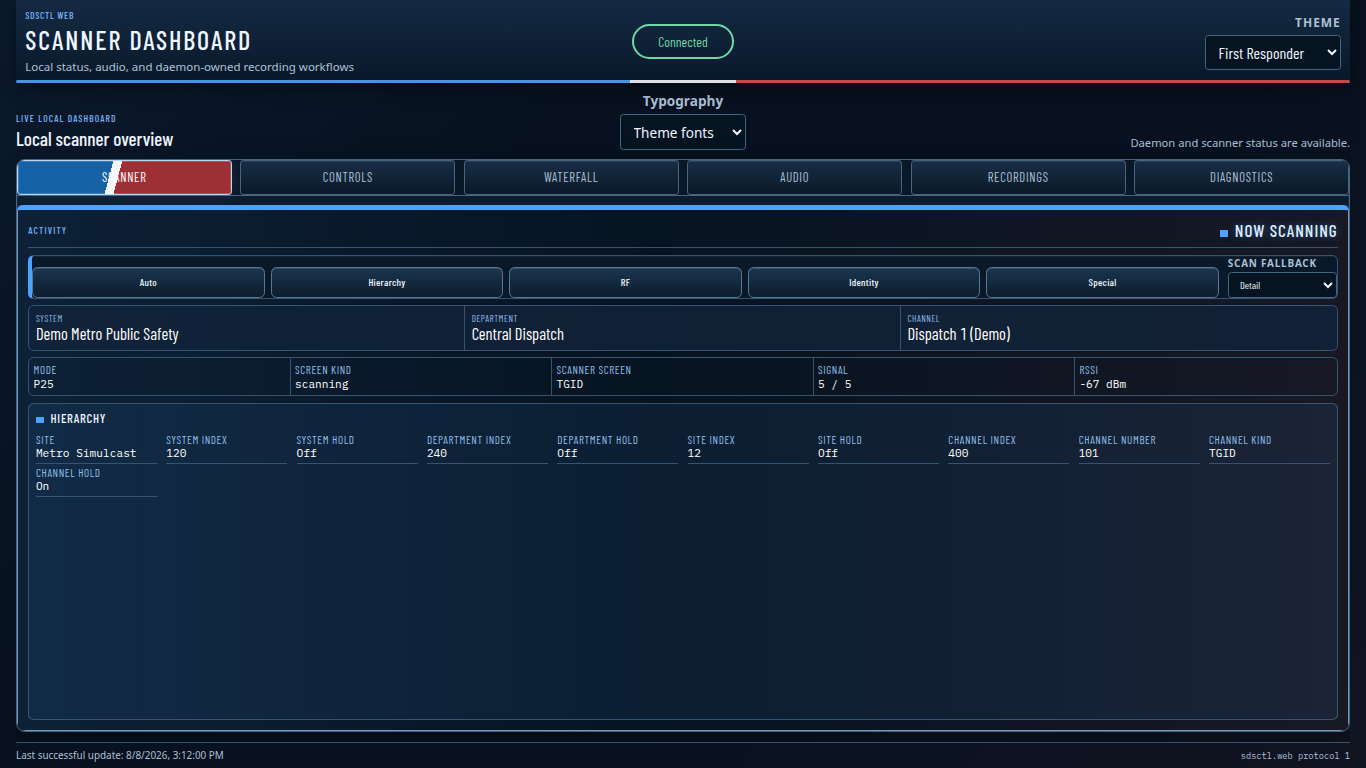
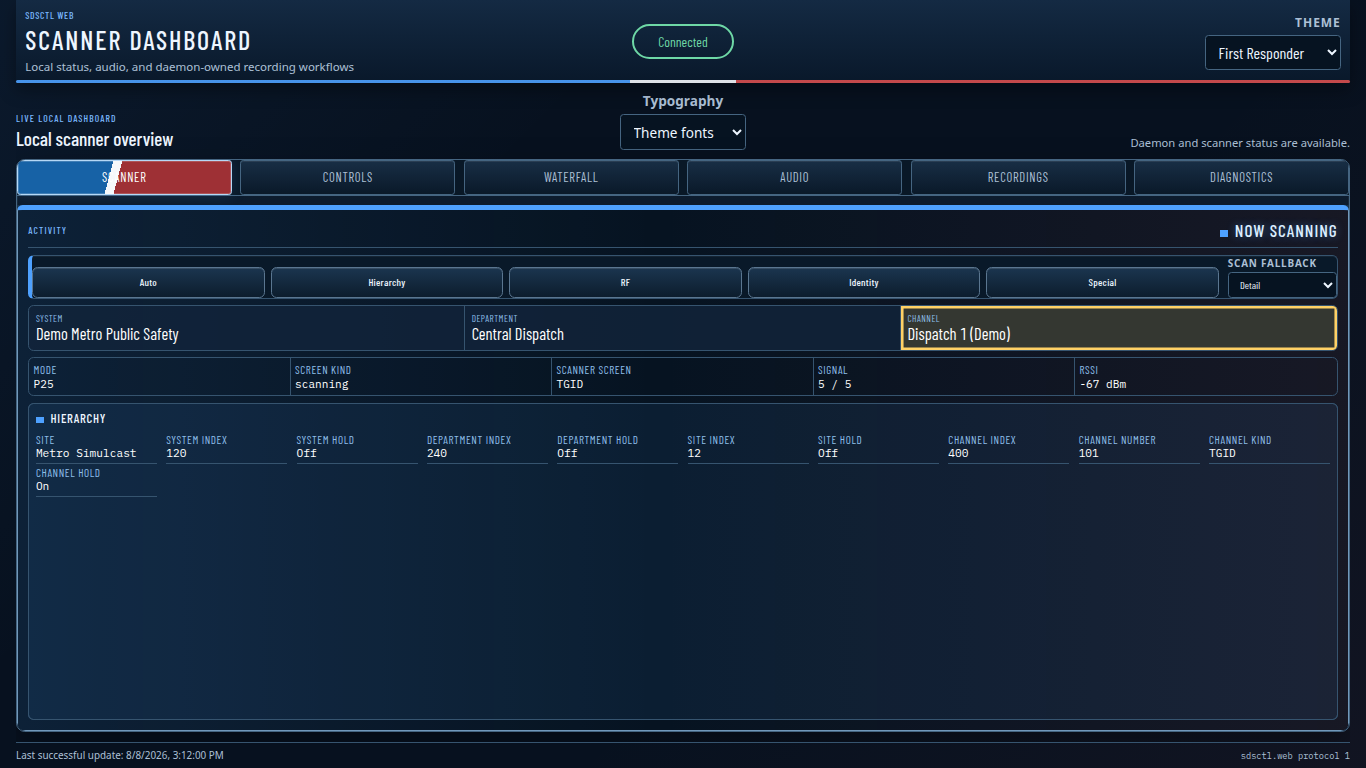
feat: highlight held scanner fields across themes

Changed region(s): [[0.6457, 0.375, 0.9839, 0.4688]]

diff --git a/src/sds200/web_assets/dashboard.html b/src/sds200/web_assets/dashboard.html
@@ -331,15 +331,15 @@
         </div>
 
         <dl class="scanner-display-hierarchy">
-          <div>
+          <div data-hold-scope="system" data-hold-state="unknown">
             <dt>System</dt>
             <dd id="radio-system" class="primary-value">No active system</dd>
           </div>
-          <div>
+          <div data-hold-scope="department" data-hold-state="unknown">
             <dt>Department</dt>
             <dd id="radio-department" class="secondary-value">Unavailable</dd>
           </div>
-          <div>
+          <div data-hold-scope="channel" data-hold-state="unknown">
             <dt>Channel</dt>
             <dd id="radio-channel" class="secondary-value">No active channel</dd>
           </div>
@@ -372,7 +372,7 @@
           <section id="radio-group-hierarchy" class="radio-field-group" aria-labelledby="radio-hierarchy-title" data-radio-group="hierarchy">
             <h3 id="radio-hierarchy-title">Hierarchy</h3>
             <dl class="radio-field-list">
-              <div><dt>Site</dt><dd id="radio-site">Unavailable</dd></div>
+              <div data-hold-scope="site" data-hold-state="unknown"><dt>Site</dt><dd id="radio-site">Unavailable</dd></div>
               <div><dt>System index</dt><dd id="radio-system-index">Unavailable</dd></div>
               <div><dt>System hold</dt><dd id="radio-system-hold">Unavailable</dd></div>
               <div><dt>Department index</dt><dd id="radio-department-index">Unavailable</dd></div>

diff --git a/src/sds200/web_assets/dashboard.js b/src/sds200/web_assets/dashboard.js
@@ -2336,6 +2336,14 @@ function setScannerCurrentSelection(scope, value) {
   output.title = text === "Unavailable" ? "" : text;
 }
 
+function setScannerFieldHoldState(scope, known, held) {
+  const field = element(`radio-${scope}`).parentElement;
+  if (field === null || field.dataset.holdScope !== scope) {
+    throw new Error(`Missing scanner hold field for ${scope}`);
+  }
+  field.dataset.holdState = !known ? "unknown" : held ? "held" : "released";
+}
+
 function setScannerHoldControl(id, scope, available, known, held) {
   const button = element(id);
   const indicator = element(`${id}-state`);
@@ -2385,6 +2393,11 @@ function setScannerControls() {
     departmentHeld || radio.department_hold === "Off";
   const siteHoldKnown = siteHeld || radio.site_hold === "Off";
   const channelHoldKnown = channelHeld || radio.channel_hold === "Off";
+
+  setScannerFieldHoldState("system", systemHoldKnown, systemHeld);
+  setScannerFieldHoldState("department", departmentHoldKnown, departmentHeld);
+  setScannerFieldHoldState("site", siteHoldKnown, siteHeld);
+  setScannerFieldHoldState("channel", channelHoldKnown, channelHeld);
 
   setScannerCurrentSelection("system", radio.system);
   setScannerCurrentSelection("department", radio.department);

diff --git a/src/sds200/web_assets/dashboard.css b/src/sds200/web_assets/dashboard.css
@@ -1485,6 +1485,23 @@ body {
   min-height: 0;
 }
 
+#radio-activity-panel [data-hold-scope][data-hold-state="held"] {
+  background: var(
+    --hold-field-background,
+    color-mix(in srgb, var(--warning) 18%, var(--surface-emphasis))
+  );
+  box-shadow: inset 0 0 0 0.16rem
+    var(--hold-field-border, var(--warning));
+}
+
+#radio-activity-panel [data-hold-scope][data-hold-state="held"] dt {
+  color: var(--hold-field-label, var(--warning));
+}
+
+#radio-activity-panel [data-hold-scope][data-hold-state="held"] dd {
+  color: var(--hold-field-value, var(--text));
+}
+
 .radio-summary {
   display: grid;
   grid-template-columns: repeat(5, minmax(0, 1fr));
@@ -2676,6 +2693,17 @@ body {
   .radio-view-controls button[aria-pressed="true"] {
     color: HighlightText;
     background: Highlight;
+  }
+
+  #radio-activity-panel [data-hold-scope][data-hold-state="held"] {
+    forced-color-adjust: none;
+    color: CanvasText !important;
+    background: Canvas !important;
+    box-shadow: inset 0 0 0 0.16rem Highlight;
+  }
+
+  #radio-activity-panel [data-hold-scope][data-hold-state="held"] :is(dt, dd) {
+    color: CanvasText !important;
   }
 
   .status-badge {

diff --git a/src/sds200/themes/web/system/theme.css b/src/sds200/themes/web/system/theme.css
@@ -31,6 +31,14 @@
   --scanner-display-muted: #526a88;
   --scanner-display-rule: #9fb2c9;
   --scanner-key: #e3e9f0;
+  --hold-field-background: color-mix(
+    in srgb,
+    var(--warning) 18%,
+    var(--scanner-display)
+  );
+  --hold-field-border: var(--warning);
+  --hold-field-label: var(--warning);
+  --hold-field-value: var(--scanner-display-ink);
 }
 
 :root[data-theme="system"] body {
@@ -187,6 +195,20 @@
 :root[data-theme="system"] #radio-activity-panel .primary-value {
   letter-spacing: 0.025em;
   text-shadow: 0 1px rgb(255 255 255 / 0.42);
+}
+
+:root[data-theme="system"]
+  #radio-activity-panel
+  [data-hold-scope][data-hold-state="held"]
+  dt {
+  color: var(--hold-field-label);
+}
+
+:root[data-theme="system"]
+  #radio-activity-panel
+  [data-hold-scope][data-hold-state="held"]
+  dd {
+  color: var(--hold-field-value);
 }
 
 :root[data-theme="system"] #radio-activity-panel .status-list > div,

diff --git a/src/sds200/themes/web/pip-boy-inspired/theme.css b/src/sds200/themes/web/pip-boy-inspired/theme.css
@@ -31,6 +31,14 @@
   --terminal-amber: #e4ad50;
   --terminal-frame: #293429;
   --terminal-frame-light: #53614d;
+  --hold-field-background: color-mix(
+    in srgb,
+    var(--terminal-amber) 18%,
+    var(--terminal-glass)
+  );
+  --hold-field-border: var(--terminal-amber);
+  --hold-field-label: var(--terminal-amber);
+  --hold-field-value: var(--terminal-green);
   font-family:
     ui-monospace, SFMono-Regular, Menlo, Monaco, Consolas,
     "Liberation Mono", monospace;

diff --git a/src/sds200/themes/web/lcars/theme.css b/src/sds200/themes/web/lcars/theme.css
@@ -27,6 +27,14 @@
   --lcars-v2-disabled-surface: #000000;
   --lcars-v2-ink: #000000;
   --lcars-v2-rail: clamp(1.3rem, 4vw, 3.5rem);
+  --hold-field-background: color-mix(
+    in srgb,
+    var(--warning) 24%,
+    var(--background)
+  );
+  --hold-field-border: var(--warning);
+  --hold-field-label: var(--warning);
+  --hold-field-value: var(--text);
   font-family: "IBM Plex Sans Condensed", "Liberation Sans Narrow", Arial, sans-serif;
 }
 

diff --git a/src/sds200/themes/web/amateur-radio/theme.css b/src/sds200/themes/web/amateur-radio/theme.css
@@ -21,6 +21,14 @@
   --radio-soft: rgb(217 154 62 / 0.08);
   --radio-cyan: #8ed9e6;
   --radio-bezel: #090a08;
+  --hold-field-background: color-mix(
+    in srgb,
+    var(--warning) 18%,
+    var(--radio-bezel)
+  );
+  --hold-field-border: var(--warning);
+  --hold-field-label: var(--warning);
+  --hold-field-value: #fff6dc;
   font-family:
     ui-sans-serif, system-ui, -apple-system, BlinkMacSystemFont,
     "Segoe UI", sans-serif;

diff --git a/src/sds200/themes/web/matrix/theme.css b/src/sds200/themes/web/matrix/theme.css
@@ -19,6 +19,14 @@
   --radius-large: 0.25rem;
   --term-accent: #72f58f;
   --term-dim: #245e32;
+  --hold-field-background: color-mix(
+    in srgb,
+    var(--warning) 16%,
+    var(--surface-emphasis)
+  );
+  --hold-field-border: var(--warning);
+  --hold-field-label: var(--warning);
+  --hold-field-value: var(--text);
   font-family:
     ui-monospace, SFMono-Regular, Menlo, Monaco, Consolas,
     "Liberation Mono", monospace;

diff --git a/src/sds200/themes/web/first-responder/theme.css b/src/sds200/themes/web/first-responder/theme.css
@@ -21,6 +21,14 @@
   --dispatch-soft: rgb(78 161 255 / 0.08);
   --dispatch-red: #d94f4f;
   --dispatch-navy: #071525;
+  --hold-field-background: color-mix(
+    in srgb,
+    var(--warning) 18%,
+    var(--dispatch-navy)
+  );
+  --hold-field-border: var(--warning);
+  --hold-field-label: var(--warning);
+  --hold-field-value: #ffffff;
 }
 
 :root[data-theme="first-responder"] body {

diff --git a/tests/test_web_dashboard.py b/tests/test_web_dashboard.py
@@ -645,6 +645,11 @@ def test_web_dashboard_shell_does_not_connect_to_daemon() -> None:
     assert 'id="waterfall-fullscreen"' in response.text
     assert "Relative, uncalibrated scanner values" in response.text
     assert 'class="scanner-display-hierarchy"' in response.text
+    for scope in ("system", "department", "site", "channel"):
+        assert (
+            f'data-hold-scope="{scope}" data-hold-state="unknown"'
+            in response.text
+        )
     assert 'id="radio-view-auto"' in response.text
     assert 'id="radio-scan-fallback-select"' in response.text
     assert "media-src 'self'" in response.headers["content-security-policy"]
@@ -979,6 +984,9 @@ def test_web_dashboard_serves_packaged_static_assets() -> None:
     assert 'performScannerControl("reconnect", "Reconnect scanner")' in script.text
     assert 'daemonControlSupported("scanner.hold_state")' in script.text
     assert "setScannerHoldControl" in script.text
+    assert "setScannerFieldHoldState" in script.text
+    for scope in ("system", "department", "site", "channel"):
+        assert f'setScannerFieldHoldState("{scope}",' in script.text
     assert 'radio.channel_hold === "On"' in script.text
     assert "button.disabled = !available" in script.text
     assert 'button.setAttribute("aria-pressed"' in script.text

diff --git a/tests/test_web_themes.py b/tests/test_web_themes.py
@@ -111,6 +111,27 @@ def test_built_in_stylesheets_are_isolated_package_resources() -> None:
                 assert f'data-theme="{other}"' not in stylesheet
 
 
+def test_built_in_themes_style_held_scanner_fields() -> None:
+    registry = built_in_web_theme_registry()
+    base = files("sds200.web_assets").joinpath("dashboard.css").read_text(
+        encoding="utf-8"
+    )
+
+    assert '[data-hold-scope][data-hold-state="held"]' in base
+    assert "--hold-field-background" in base
+    assert "--hold-field-border" in base
+    assert "@media (forced-colors: active)" in base
+    for theme in registry.themes:
+        stylesheet = read_built_in_web_theme_stylesheet(theme).decode("utf-8")
+        for custom_property in (
+            "--hold-field-background:",
+            "--hold-field-border:",
+            "--hold-field-label:",
+            "--hold-field-value:",
+        ):
+            assert custom_property in stylesheet
+
+
 def test_pip_boy_inspired_theme_uses_stable_declarative_hooks() -> None:
     registry = built_in_web_theme_registry()
     theme = registry.require("pip-boy-inspired")

diff --git a/docs/web-dashboard.md b/docs/web-dashboard.md
@@ -592,6 +592,10 @@ complete and more height stays available to the working pane.
 
 The captures use each theme's [default typography](theme-typography.md),
 including the locally bundled theme fonts.
+The fictional scanner fixture holds `Dispatch 1 (Demo)`, so every Scanner-pane
+capture also demonstrates that theme's held-field treatment. A held System,
+Department, Site, or Channel changes the background and gains an inset boundary;
+released and unavailable fields keep their normal presentation.
 Appearance controls are centered above the workspace, wrapping onto a centered
 row when needed. LCARS shows the replacement v2 design with its Classic palette,
 Antonio font, segmented frame, and Site field beneath System. At compact
